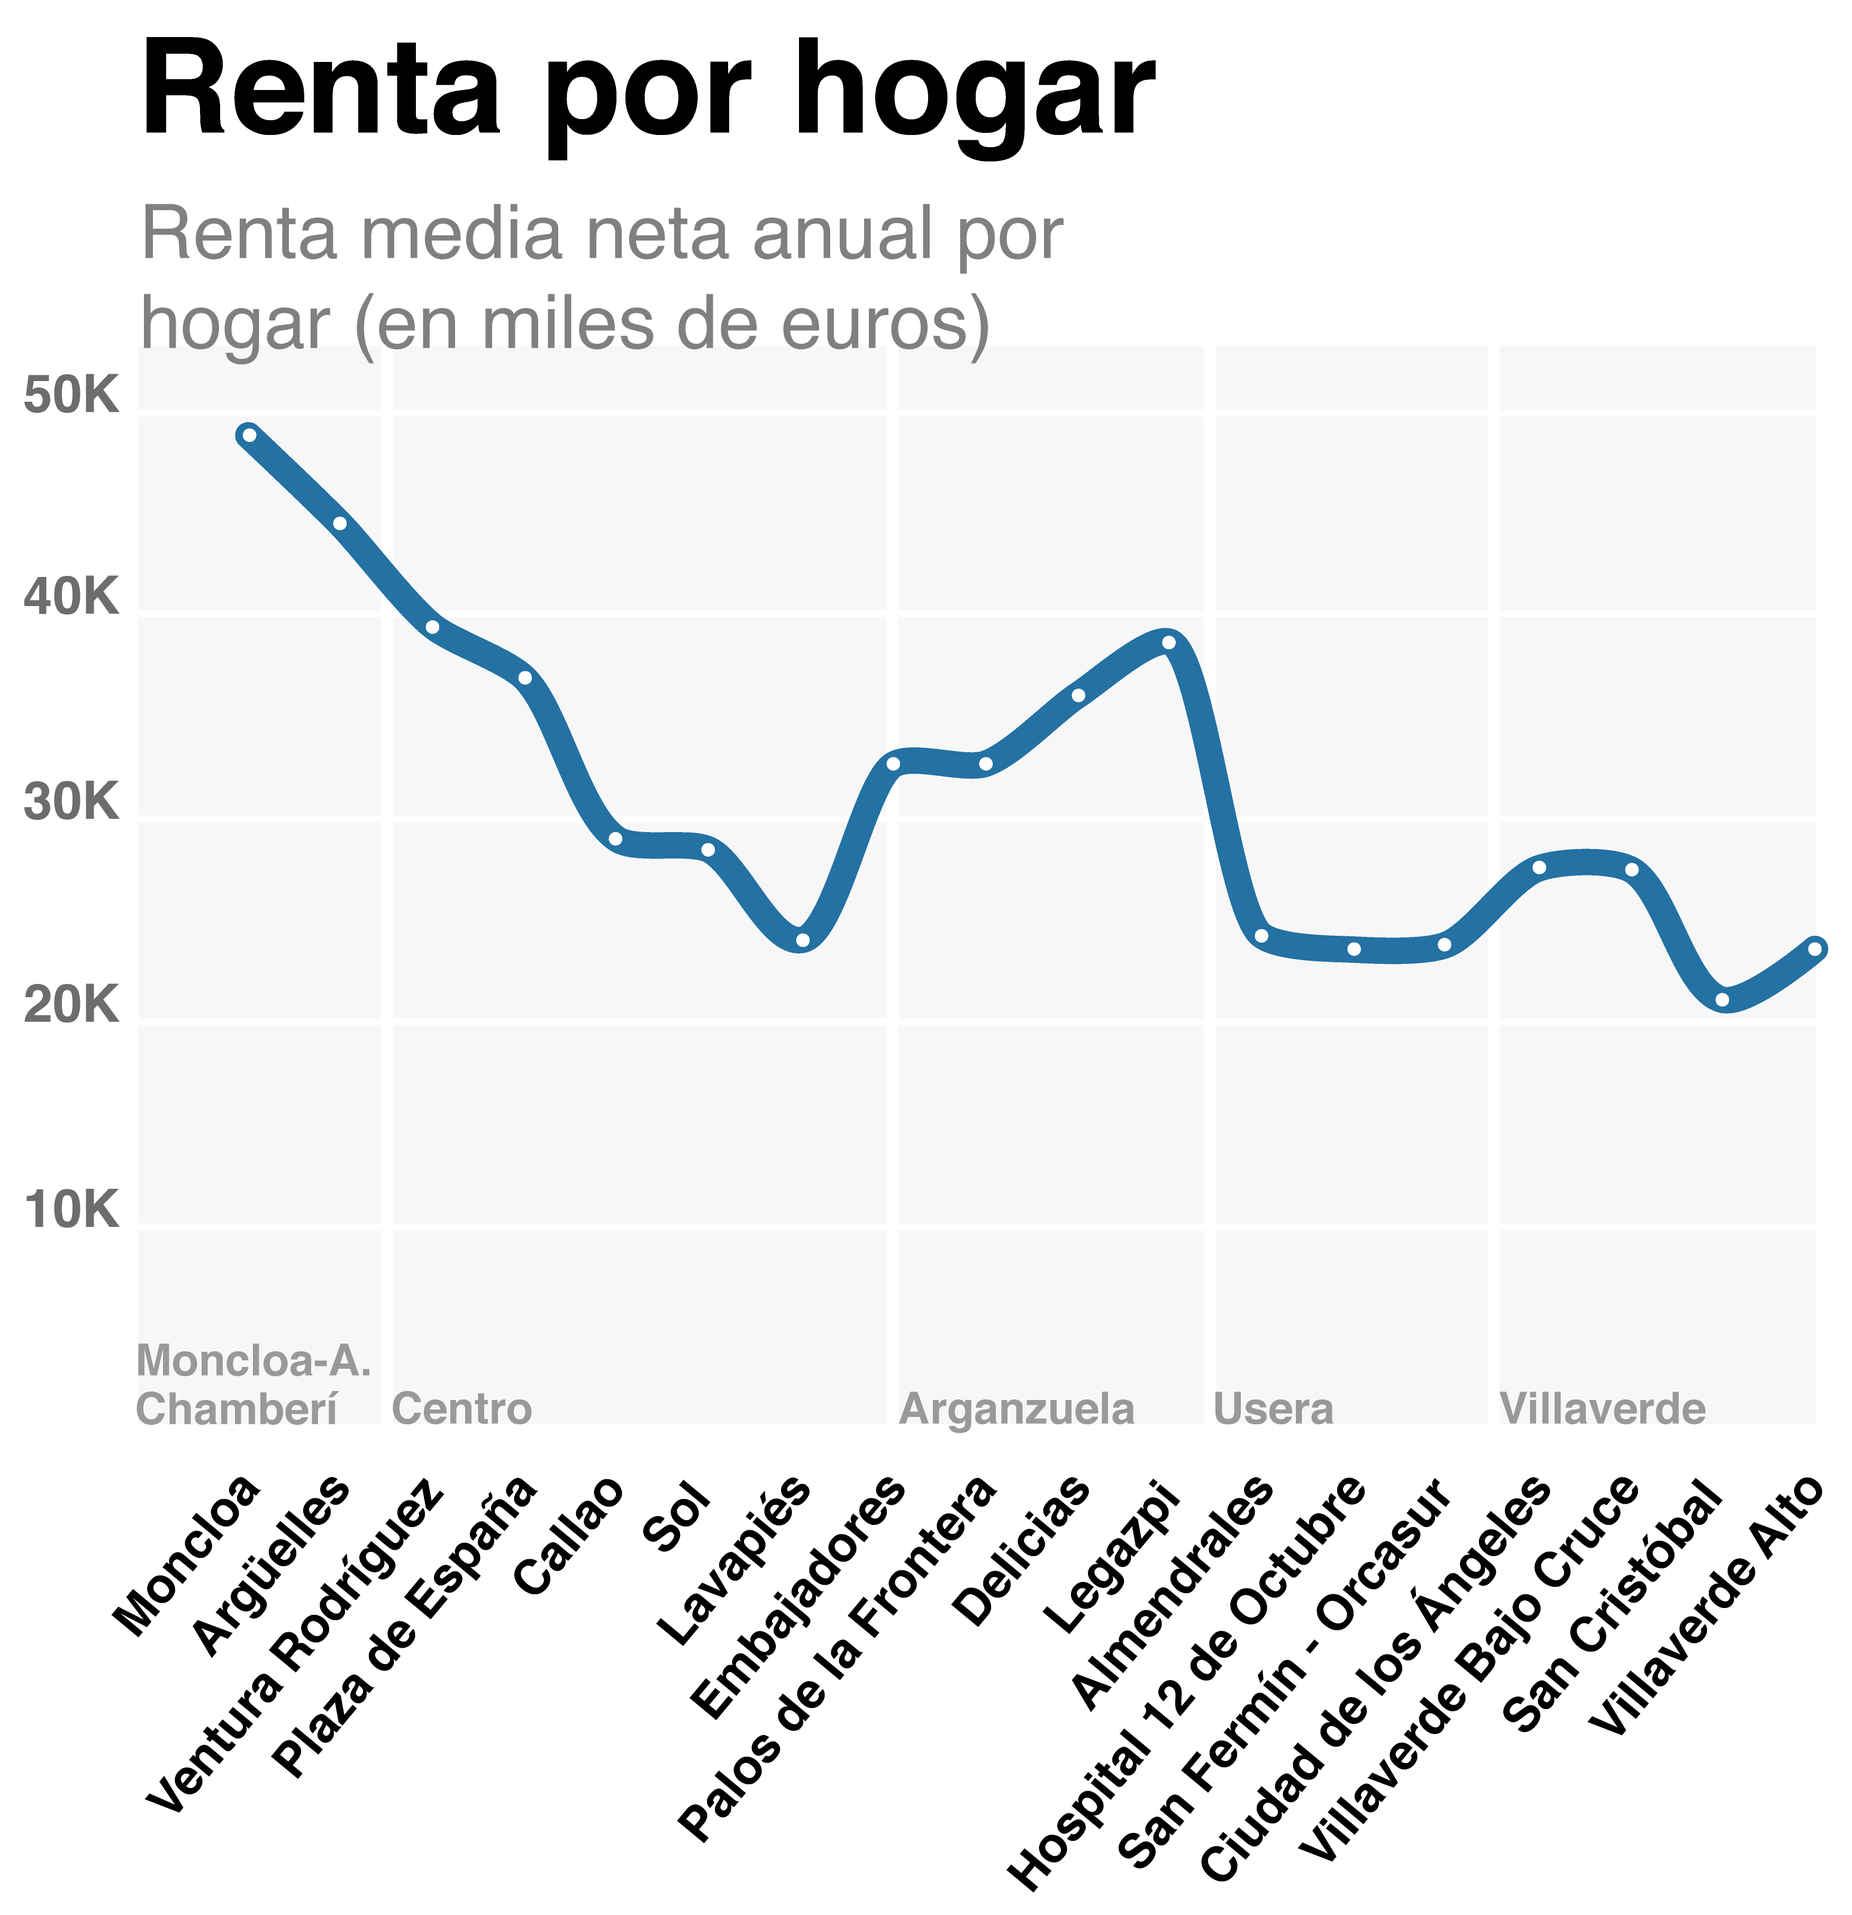
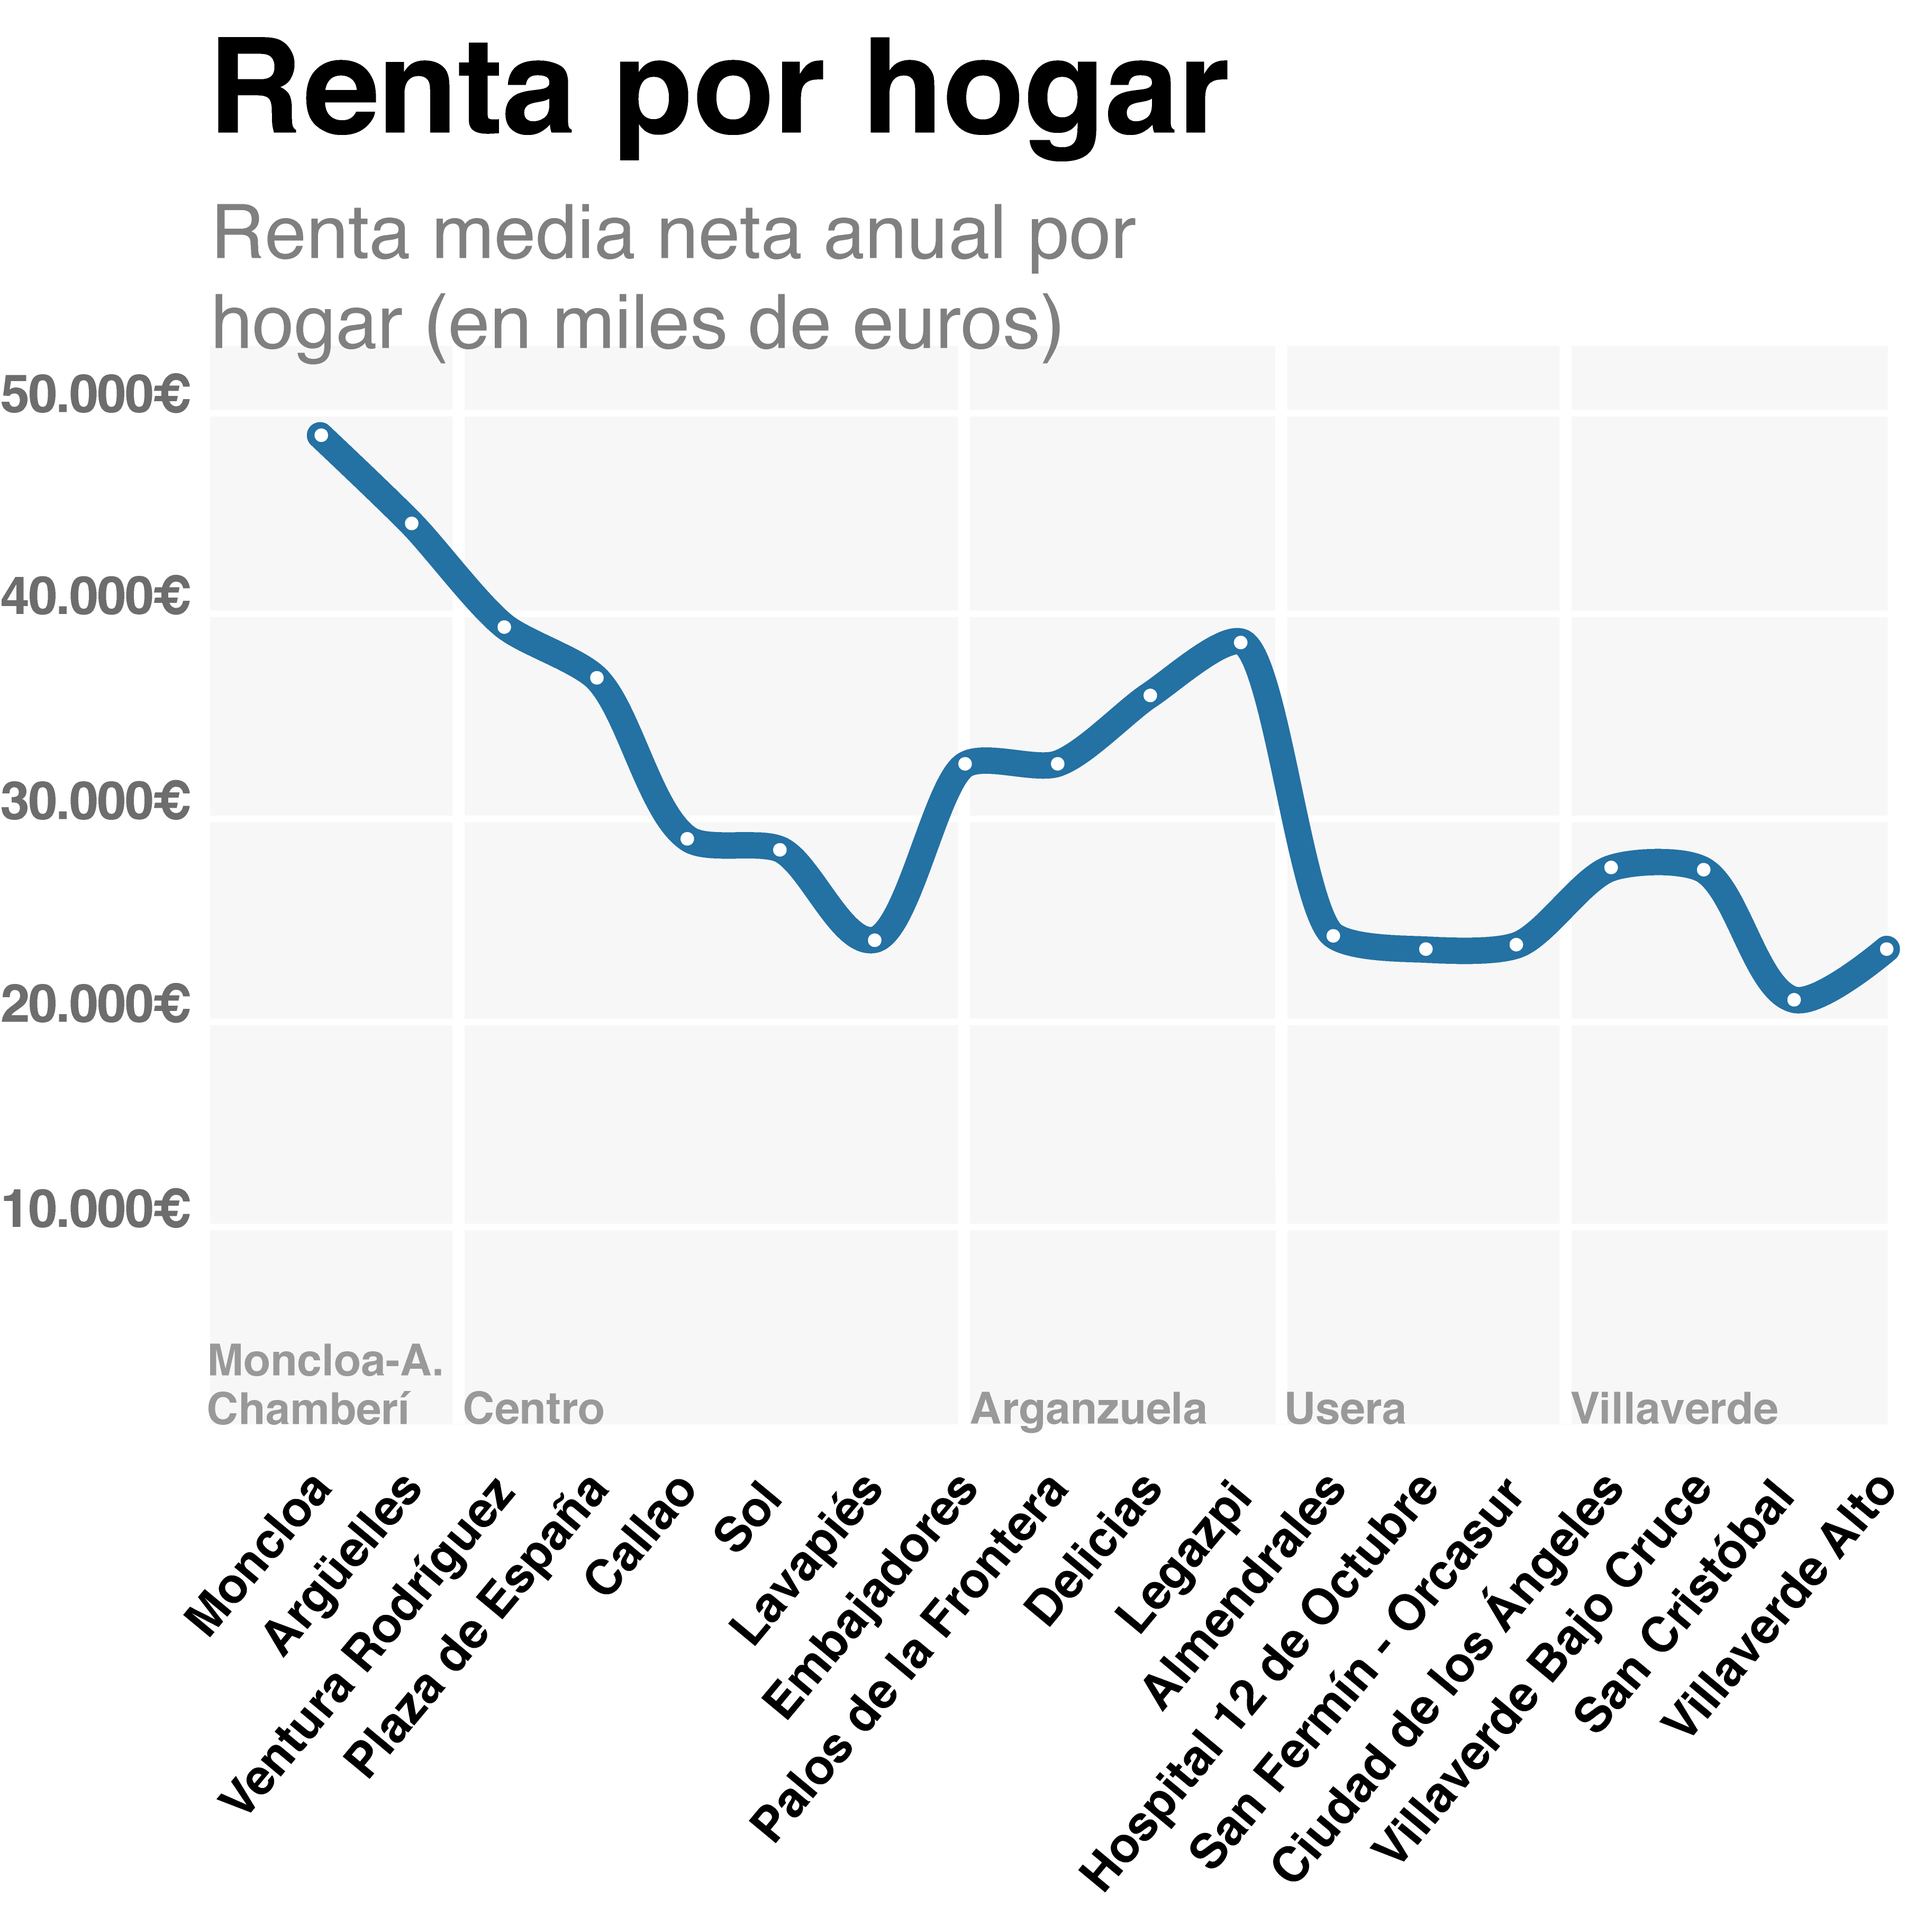
update-decimales-iconos

diff --git a/docs/index.html b/docs/index.html
@@ -55,6 +55,10 @@
           <img class="plano-situacion" alt="planosituacion" src="images/plano_situacion_zonas-02.png">
     </div>
 
+    <div class="plano-mobile">
+          <img class="plano-situacion-mobile" alt="planosituacion" src="images/plano_situacion_mobile.png">
+    </div>
+
 
 
     <div class="section-extremos" id="Extremos">
@@ -78,7 +82,7 @@
         </div>
 
         <div class="grafico-2">
-          <img class="grafico-extremos" alt="graficoextremos2" src="images/grafico_extremos_version2.png">
+          <img class="grafico-extremos" alt="graficoextremos2" src="images/grafico_extremos_04.png">
         </div>
 
         <img class="cupula" alt="fotografía de dos zonas de Moncloa y Villaverde" src="images/cupula3.png">
@@ -115,6 +119,7 @@
         </div>
 
         <img class="grafico-manzanares" src="images/grafico_manzanares.png">
+        <img class="grafico-manzanares-mobile" src="images/grafico_manzanares_mobile.png">
 
         <div class="texto-estaciones">
           <p>En general, los datos obtenidos empeoran a medida que se viaja desde Moncloa hacia Villaverde Alto, es decir, dirección sur. El principal salto que acentúa esta tendencia se produce entre estas dos estaciones. Pero hay excepciones.</p>
@@ -237,7 +242,7 @@
             </div>
             <div class="texto-derecha-footer">
               <p class="parrafo-footer">Joan Llop | <a href="https://drive.google.com/drive/u/0/folders/1Ey8NCgWTUwcOwPQl2c-s88XQ2OVX6yOB" class="enlace-footer">Currículum Vitae</a></p>
-              <p class="parrafo-footer"><a href="https://twitter.com/jouerl" class="enlace-footer">TWITTER</a> | <a href="https://www.linkedin.com/in/joan-llop-cabo-447507115/" class="enlace-footer">LINKEDIN</a></p>
+              <p class="parrafo-footer"><a class="twitter" href="https://twitter.com/jouerl"><img src="images/icon_twitter.png" alt="Perfil en Twitter" /></a>                          <a class="linkedin" href="https://www.linkedin.com/in/joan-llop-cabo-447507115/"><img src="images/icon_linkedin.png" alt="Perfil en Linkedin" /></a></p>
             </div>
         </div>
 

diff --git a/docs/styles.css b/docs/styles.css
@@ -123,11 +123,15 @@ p {
   border-radius: 10%;
 }
 
-.plano-situacion {
+.plano-situacion-mobile {
   width: 100%;
-  margin-top: 1%;
+  margin-top: 0;
   overflow: auto;
   display: flex;
+}
+
+.plano-situacion {
+  display: none;
 }
 
 .section-extremos {
@@ -185,10 +189,10 @@ h3 {
 }
 
 .grafico-extremos {
-  width: 90%;
+  width: 96%;
   margin-top: 0;
-  padding-right: 5%;
-  padding-left: 5%;
+  padding-right: 2%;
+  padding-left: 2%;
   padding-bottom: 3%;
 }
 
@@ -200,8 +204,8 @@ h3 {
   width: 100%;
   padding-left: 0;
   display: flex;
-  padding-bottom: 0;
-  padding-top: 0;
+  padding-bottom: 6%;
+  padding-top: 3%;
 }
 
 .parrafo-moncloa {
@@ -274,11 +278,15 @@ h4 {
   margin-bottom: 2%;
 }
 
-.grafico-manzanares {
+.grafico-manzanares-mobile {
   margin: 0;
   padding-top: 5%;
   padding-bottom: 6%;
   width: 100%;
+}
+
+.grafico-manzanares {
+  display: none;
 }
 
 .separador-seccion {
@@ -477,6 +485,7 @@ h6 {
   font-weight: 100;
 }
 
+
 /* #prueba{
   display: flex;
   flex-wrap: wrap;
@@ -527,6 +536,10 @@ justify-content: center;
   margin: 0%;
   overflow: auto;
   display: flex;
+}
+
+.plano-situacion-mobile {
+  display: none;
 }
 
 .plano {
@@ -757,6 +770,10 @@ h4 {
   padding: 0;
   padding-bottom: 5%;
   width: 100%;
+}
+
+.grafico-manzanares-mobile {
+  display: none;
 }
 
 .separador-seccion {
